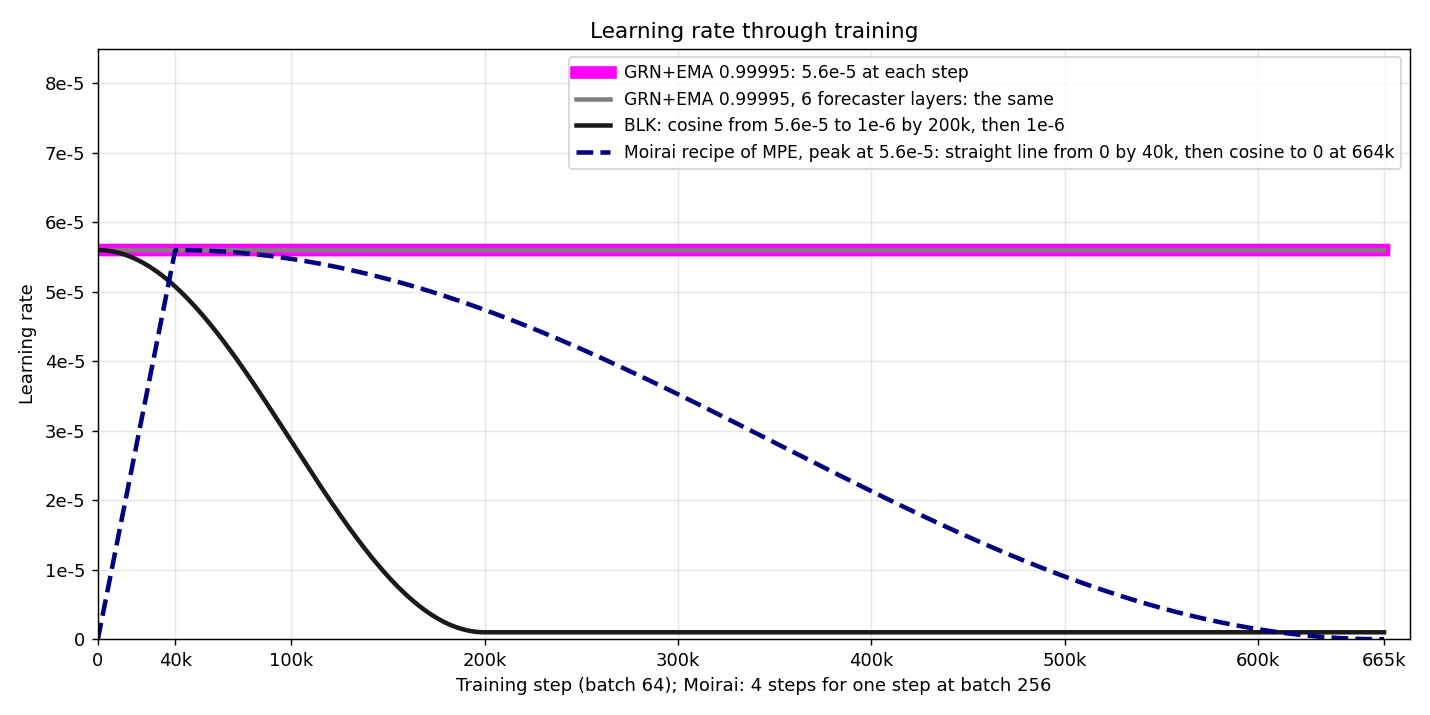
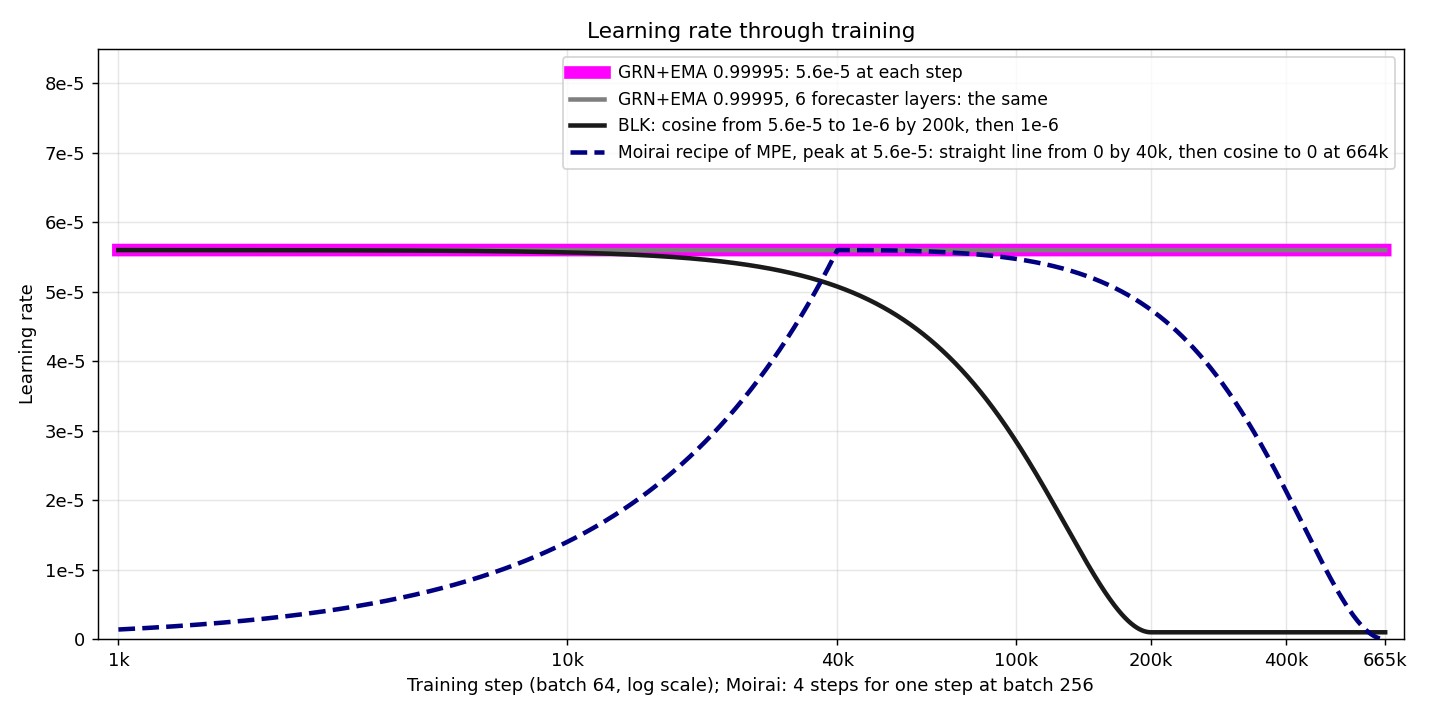
Frequency-family report: learning-rate plot with the steps on a log scale
The owner: a log scale for the steps. The axis starts at 1k, the first
stop of the runs, with the ticks of the score figure.

diff --git a/reports/2026-10-10_frequency_family_head/scripts/plot_lr_099995.py b/reports/2026-10-10_frequency_family_head/scripts/plot_lr_099995.py
@@ -9,8 +9,8 @@ of BLK, and the Moirai recipe of MPE with its peak at the rate of the grey run.
                  steps are batch-64 steps (4 for one step at batch 256): the
                  warmup ends at 40,000 and the cosine at 664,000.
 The formulas are those of `scheduled_lr` in
-experiments/2026-04-27_freq-embedding/scripts/train.py. Writes
-plots/lr_schedule_099995.png.
+experiments/2026-04-27_freq-embedding/scripts/train.py. The steps are on a
+log scale from 1k, the first stop of the runs. Writes plots/lr_schedule_099995.png.
 
 Usage: python3 plot_lr_099995.py
 """
@@ -20,13 +20,15 @@ import matplotlib
 matplotlib.use("Agg")
 import matplotlib.pyplot as plt
 import numpy as np
-from matplotlib.ticker import FuncFormatter
+from matplotlib.ticker import FixedLocator, FuncFormatter, NullLocator
 
 STUDY = Path(__file__).resolve().parent.parent
 OUT = STUDY / "plots" / "lr_schedule_099995.png"
 TOTAL = 665_000
 LR = 5.6e-5
 STEPS_PER_256 = 4  # batch-64 steps for one step at batch 256
+FIRST = 1000  # the first step on the log axis: the first stop of the runs
+TICKS_K = [1, 10, 40, 100, 200, 400, 665]
 
 
 def cosine_lr(step, lr_start, lr_final, total):
@@ -56,19 +58,21 @@ LINES = [
 
 
 def style_axes(ax):
-    ax.set_xlim(0, TOTAL * 1.02)
-    ax.set_xticks([0, 40_000, 100_000, 200_000, 300_000, 400_000, 500_000, 600_000, TOTAL])
-    ax.set_xticklabels(["0", "40k", "100k", "200k", "300k", "400k", "500k", "600k", "665k"])
+    ax.set_xscale("log")
+    ax.set_xlim(FIRST * 0.9, TOTAL * 1.1)
+    ax.xaxis.set_major_locator(FixedLocator([k * 1000 for k in TICKS_K]))
+    ax.xaxis.set_minor_locator(NullLocator())
+    ax.set_xticklabels([f"{k}k" for k in TICKS_K])
     ax.set_ylim(0, 8.5e-5)  # room for the legend above the lines
     ax.yaxis.set_major_formatter(FuncFormatter(lambda y, _: "0" if y == 0 else f"{y * 1e5:g}e-5"))
-    ax.set(xlabel="Training step (batch 64); Moirai: 4 steps for one step at batch 256",
+    ax.set(xlabel="Training step (batch 64, log scale); Moirai: 4 steps for one step at batch 256",
            ylabel="Learning rate", title="Learning rate through training")
     ax.grid(alpha=0.3)
     ax.legend(loc="upper right", fontsize=9.5)
 
 
 def main():
-    steps = np.linspace(0, TOTAL, 2001)
+    steps = np.geomspace(FIRST, TOTAL, 2001)
     fig, ax = plt.subplots(figsize=(11, 5.5))
     for label, colour_hex, width, style, lr_of in LINES:
         ax.plot(steps, lr_of(steps), color=colour_hex, lw=width, ls=style, label=label)
